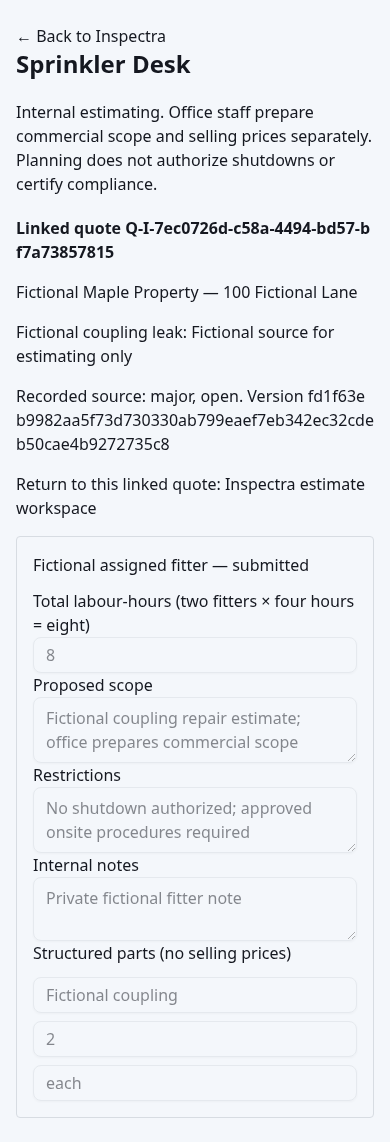
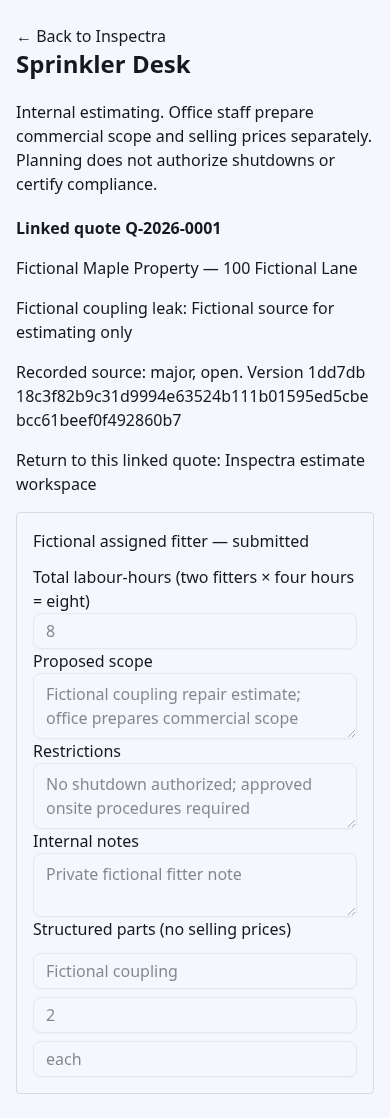
test: verify existing EWF numbering and record integration validation

diff --git a/docs/integrations/EWF_SPRINKLER_DESK.md b/docs/integrations/EWF_SPRINKLER_DESK.md
@@ -153,7 +153,7 @@ Fictional screenshots: [submitted fitter](screenshots/fictional-fitter-submitted
 | Status | Check | Evidence |
 |---|---|---|
 | Passed | EWF baseline | Schema17 / PR4 current main; 180 tests on Node22.23.3 and24.19.0 |
-| Passed | EWF final regressions | 184 tests on Node22.23.3 and24.19.0; zero skips/failures |
+| Passed | EWF final regressions | 185 tests on Node22.23.3 and24.19.0; zero skips/failures |
 | Passed | EWF browser/PWA | All ten existing Chromium scripts; fictional desktop/mobile/permissions/private cache/offline/document workflows |
 | Passed | Cross-app browser | Real Inspectra and EWF services, isolated MySQL/SQLite; 8 hours, parts, saved/submitted/reviewed content, return link and account/customer denial; 390px viewport |
 | Passed | Inspectra final tests | 119 files / 1,248 tests, zero failures |
@@ -170,3 +170,7 @@ Fictional screenshots: [submitted fitter](screenshots/fictional-fitter-submitted
 No real email, customer link activation, production migration, credential change,
 volume replacement, infrastructure update or deployment occurred. Hosted checks
 and draft PR publication state belong in the PR, not inferred from local results.
+
+Final adapter checks also verify atomic quote/property/deficiency/link rollback
+on audit failure, safe retry and reuse of the existing EWF quote-number policy.
+Work-order numbering remains untouched.

diff --git a/docs/PRODUCTION_READINESS.md b/docs/PRODUCTION_READINESS.md
@@ -207,7 +207,7 @@ authoritative SQLite service. No production database/volume/settings changed.
 | Whole-suite consolidation | In progress | First quote/fitter workflow only. Approval/WO/scheduling/visits/billing/stock/equipment/report adapters remain future phases |
 | Production recovery | Open | Inspectra PR18 deployment failed; this integration does not repair or verify live schema. No integration activation until independently recovered and approved |
 
-Validation: 1,248 Inspectra tests passed /14 skipped; EWF184 tests passed on
+Validation: 1,248 Inspectra tests passed /14 skipped; EWF185 tests passed on
 Node22.23.3/24.19.0; all ten EWF browser/PWA checks and real cross-app mobile
 workflow passed. Inspectra typecheck/build/isolated smoke and strict tenant audit
 (61 routers,0 active findings,2 reviewed exceptions) passed. EWF dependency audit
